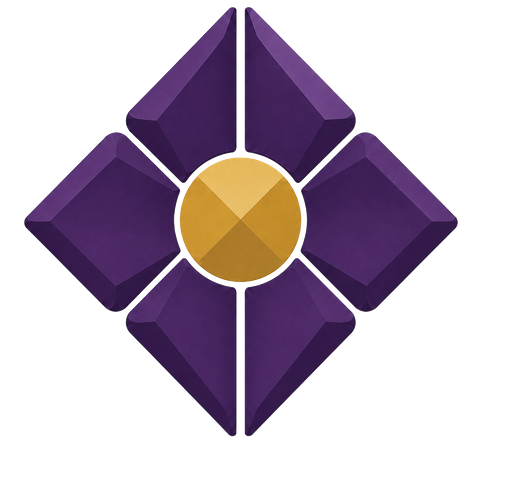
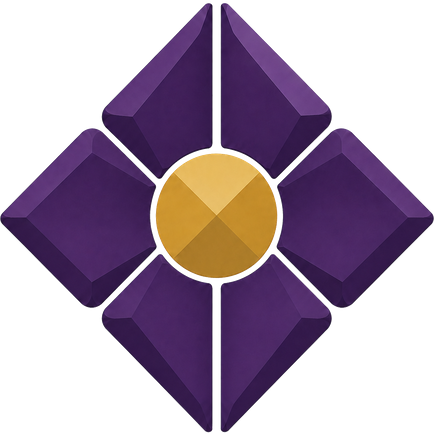
fix(ui): center sovereign brand mark asset

diff --git a/apps/web/src/login/login-view.test.tsx b/apps/web/src/login/login-view.test.tsx
@@ -74,11 +74,11 @@ describe("LoginView", () => {
   it("shows the brand sign and product name above the form title", () => {
     // Вход — единственный экран без оболочки, и без опознавательного знака карточка выглядит
     // безымянной. Бренд-блок стоит над заголовком; название продукта — видимый текст, знак —
-    // декоративный SVG (опознание даёт именно название).
+    // декоративное изображение (опознание даёт именно название).
     show();
 
     expect(screen.getByText(translator.t("product.name"))).toBeDefined();
-    expect(document.querySelector("svg")).not.toBeNull();
+    expect(document.querySelector('img[alt=""]')).not.toBeNull();
   });
 
   it("puts the cursor in the password field: the form is one field long", () => {

diff --git a/packages/ui-kit/src/styles/styles.test.ts b/packages/ui-kit/src/styles/styles.test.ts
@@ -799,6 +799,14 @@ describe("stylesheets of the kit", () => {
     expect(source).not.toMatch(/color:\s*var\(--sovereign-accent\);/);
   });
 
+  it("ships a square brand image so the mark can sit in the center of its icon box", () => {
+    const source = readFileSync(join(kitRoot, "assets", "sovereign-mark.png"));
+    const width = source.readUInt32BE(16);
+    const height = source.readUInt32BE(20);
+
+    expect(width).toBe(height);
+  });
+
   it("dresses every primitive it ships", () => {
     const components = readdirSync(join(kitRoot, "components"))
       .filter((name) => name.endsWith(".tsx"))

diff --git a/apps/web/src/App.test.tsx b/apps/web/src/App.test.tsx
@@ -281,7 +281,7 @@ describe("App shell composition", () => {
 
     const productName = within(navigation).getByText("Sovereign");
 
-    expect(productName.parentElement?.querySelector("svg")).not.toBeNull();
+    expect(productName.parentElement?.querySelector('img[alt=""]')).not.toBeNull();
     expect(within(navigation).getByRole("button", { name: "+ New session" })).toBeDefined();
   });
 
